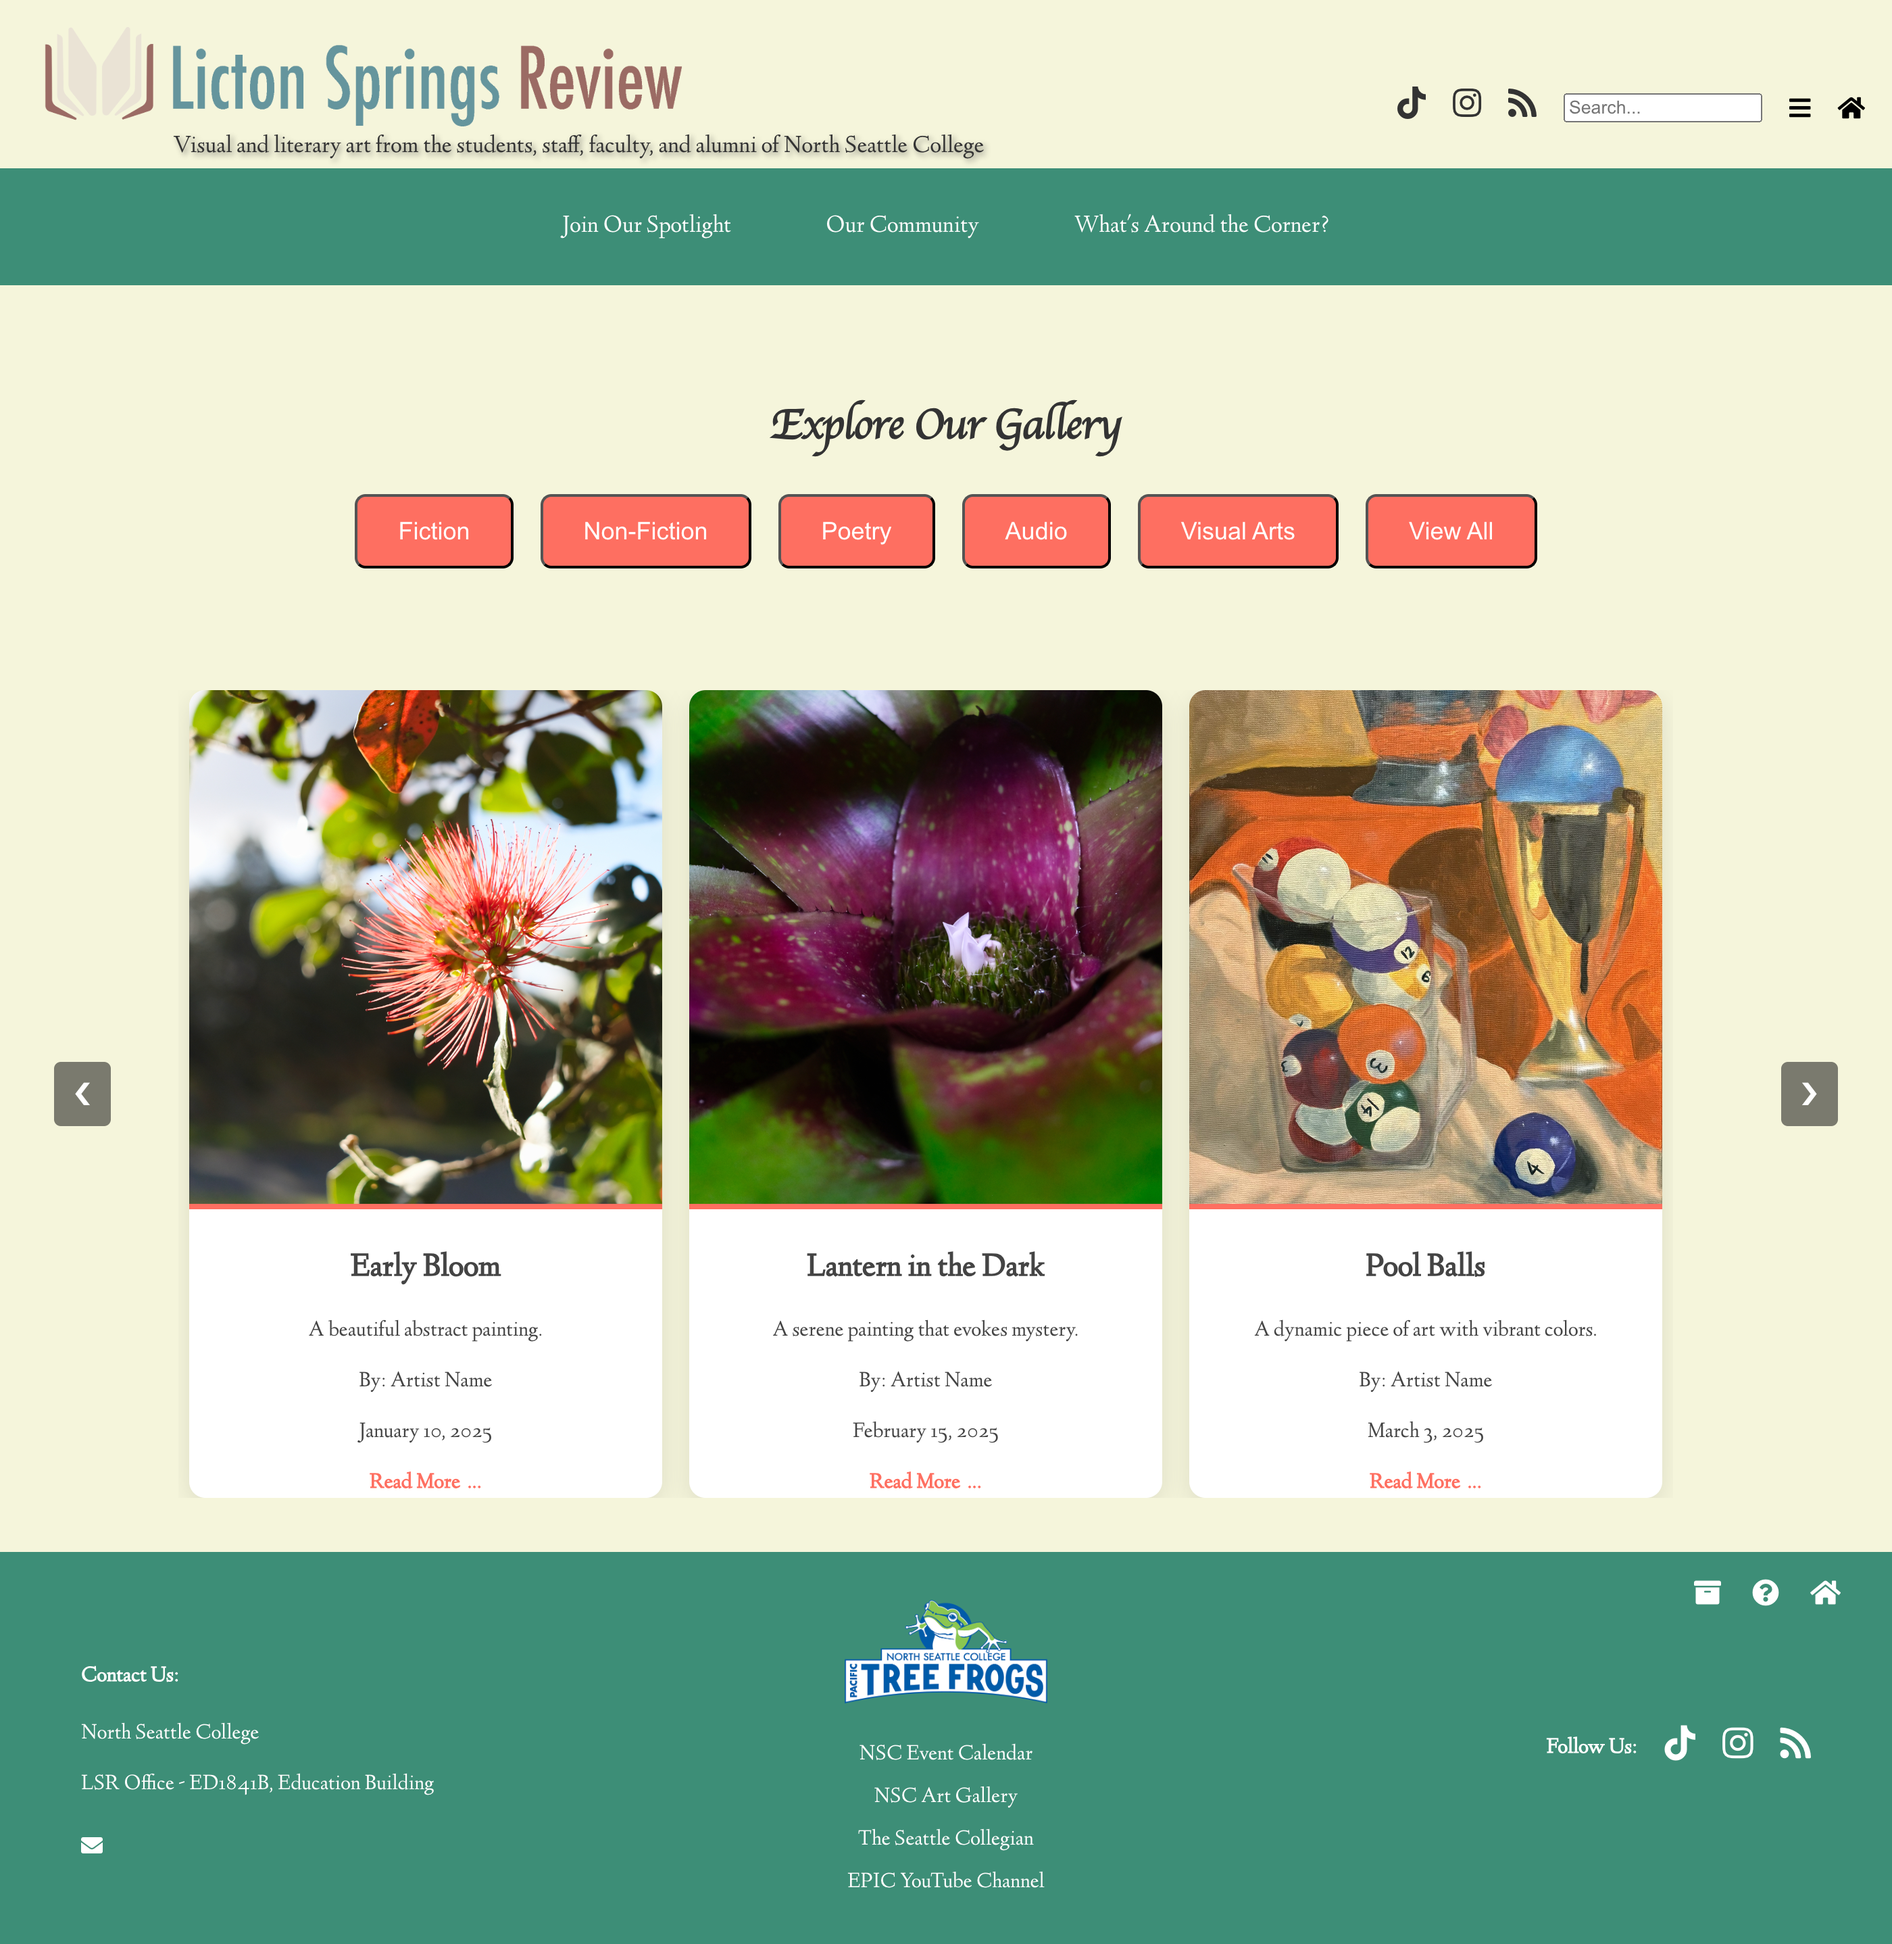
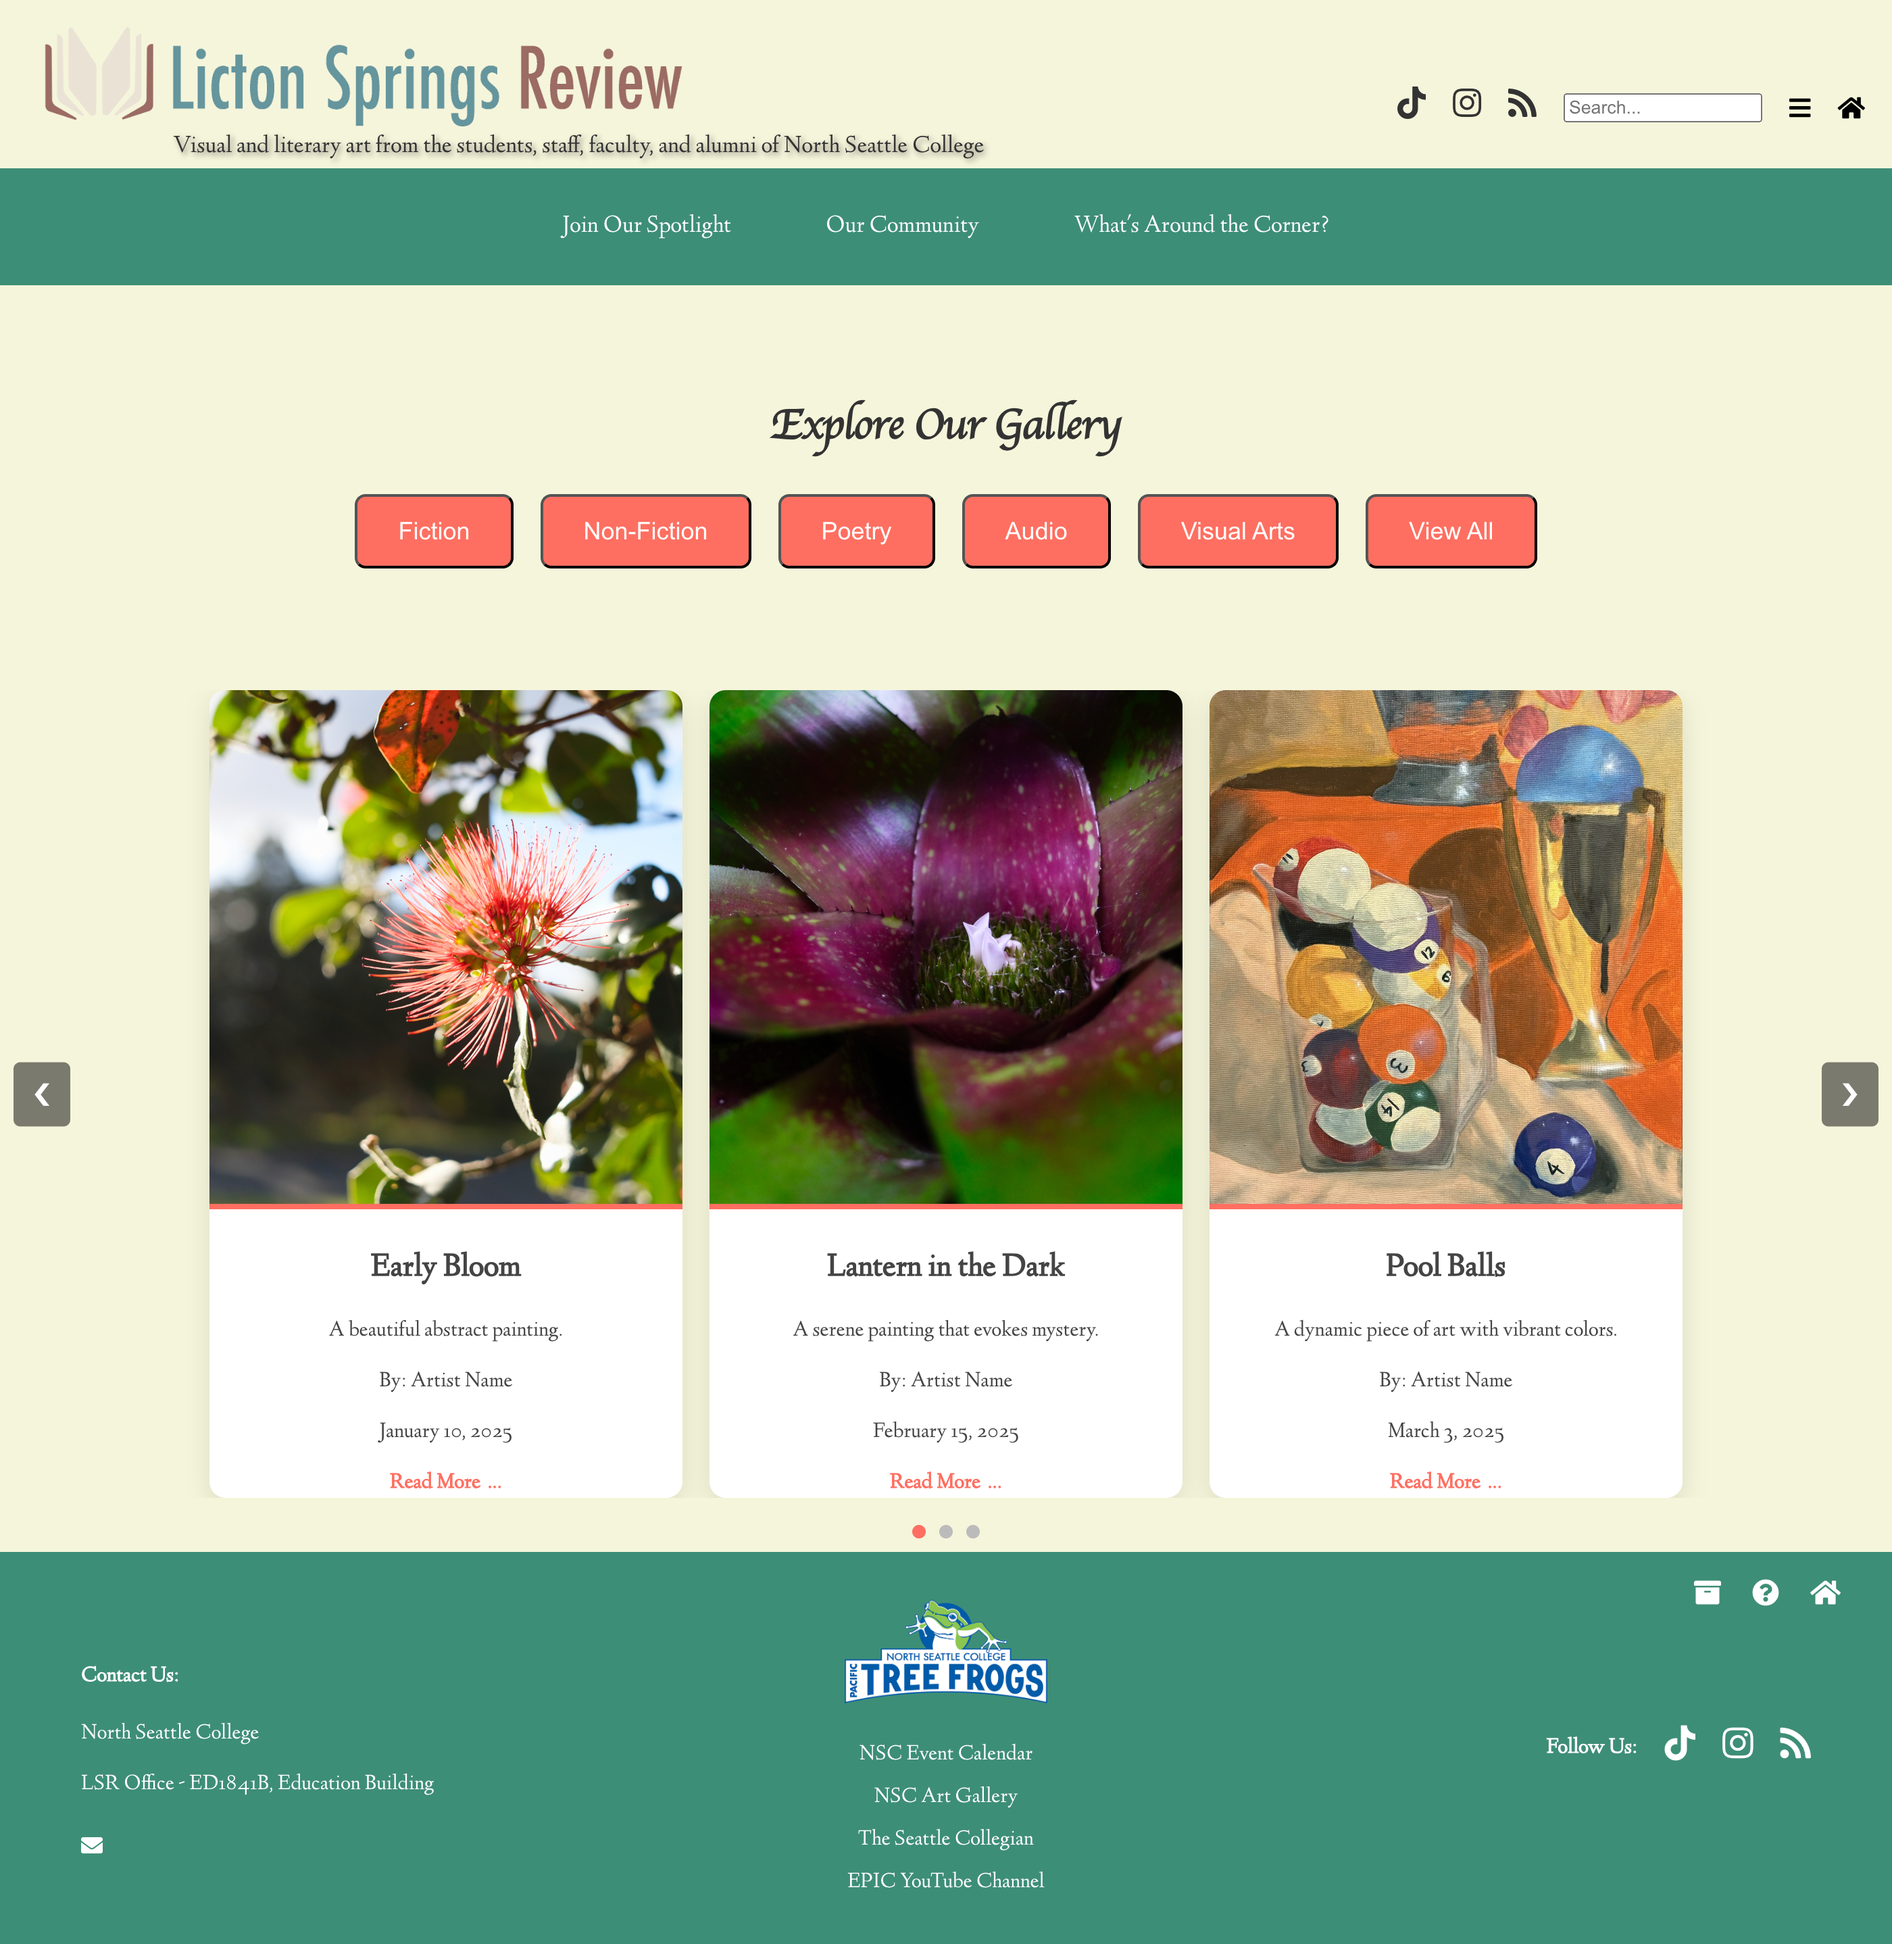
Fix the pagination dots and also added the screenshot of homepage in readme.md

diff --git a/src/App.css b/src/App.css
@@ -129,6 +129,7 @@ section.hero .hero-button:hover {
   color: #FF6F61;
 }
 
+
 /* Gallery Section */
 .gallery {
   display: flex;
@@ -141,6 +142,7 @@ section.hero .hero-button:hover {
   width: 100%;
   overflow: hidden;
   box-sizing: border-box;
+  position: relative; 
 }
 
 /* Gallery Container */
@@ -150,6 +152,7 @@ section.hero .hero-button:hover {
   width: 100%;
   justify-content: center;
   overflow: hidden;
+  position: relative; 
 }
 
 /* Gallery Item */
@@ -160,6 +163,7 @@ section.hero .hero-button:hover {
   overflow: hidden;
   width: 350px;
   text-align: center;
+  position: relative;
 }
 
 /* Gallery Item Image */
@@ -200,9 +204,41 @@ section.hero .hero-button:hover {
   color: #888;
 }
 
+/* Pagination Dots */
+.pagination {
+  display: flex;
+  justify-content: center;
+  margin-top: 20px; 
+  width: 100%;
+  position: absolute;
+  bottom: 10px; 
+}
+
+/* Dot styling */
+.dot {
+  width: 10px;
+  height: 10px;
+  margin: 0 5px;
+  border-radius: 50%;
+  background-color: #bbb;
+  cursor: pointer;
+  transition: background-color 0.3s;
+}
+
+.dot.active {
+  background-color: #FF6F61; 
+}
+
+.dot:hover {
+  background-color: #FF6F61;
+}
+
 /* Buttons */
 .prev-btn,
 .next-btn {
+  position: absolute;
+  top: 50%;
+  transform: translateY(-50%);
   background-color: rgba(0, 0, 0, 0.5);
   color: white;
   border: none;
@@ -216,12 +252,12 @@ section.hero .hero-button:hover {
 
 /* Left Button */
 .prev-btn {
-  margin-right: 20px;
+  left: 10px;
 }
 
 /* Right Button */
 .next-btn {
-  margin-left: 20px;
+  right: 10px;
 }
 
 /* Hover Effect for Buttons */

diff --git a/src/components/Gallery.jsx b/src/components/Gallery.jsx
@@ -53,11 +53,13 @@ const Gallery = () => {
         ))}
       </div>
 
+      {/* Pagination */}
       <div className="pagination">
         {Array.from({ length: Math.ceil(images.length / imagesPerPage) }).map((_, index) => (
           <span
             key={index}
             className={`dot ${index === Math.floor(currentIndex / imagesPerPage) ? 'active' : ''}`}
+            onClick={() => setCurrentIndex(index * imagesPerPage)}  
           ></span>
         ))}
       </div>

diff --git a/README.md b/README.md
@@ -20,6 +20,13 @@ This design was created as an alternative homepage concept for the LSR website. 
 ---
 
 
+## 📸 Screenshots  
+![Homepage Screenshot](src/Assets/Homepage.png)
+
+
+---
+
+
 ### **🛠 Technologies Used**  
 - React  
 
